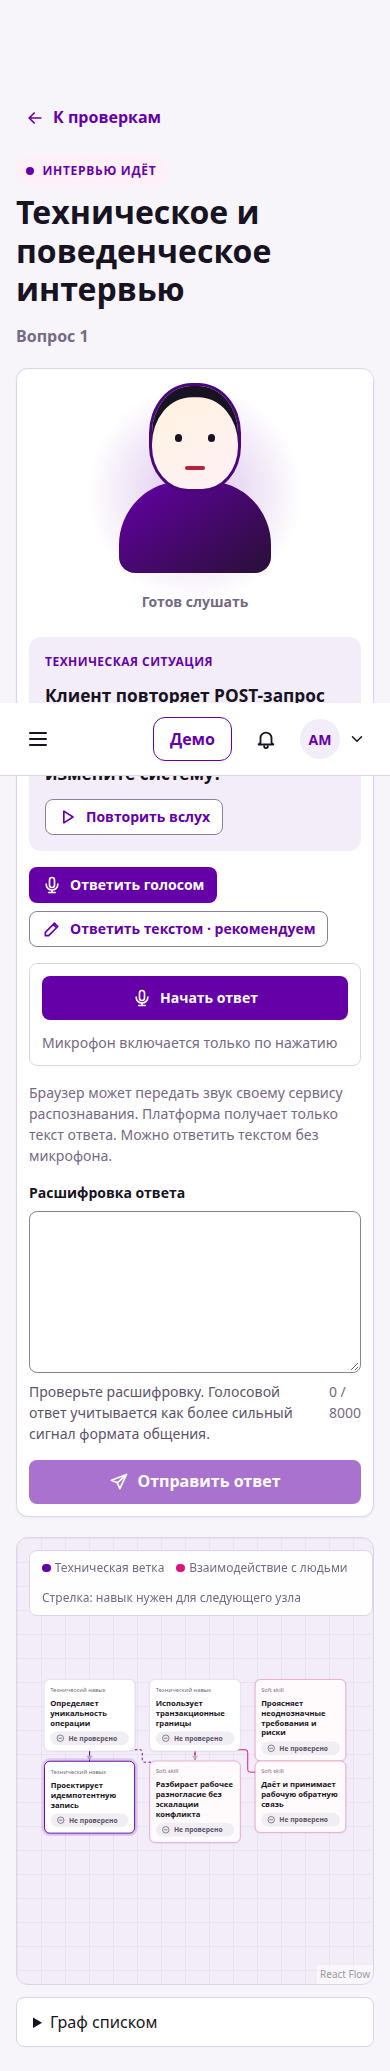
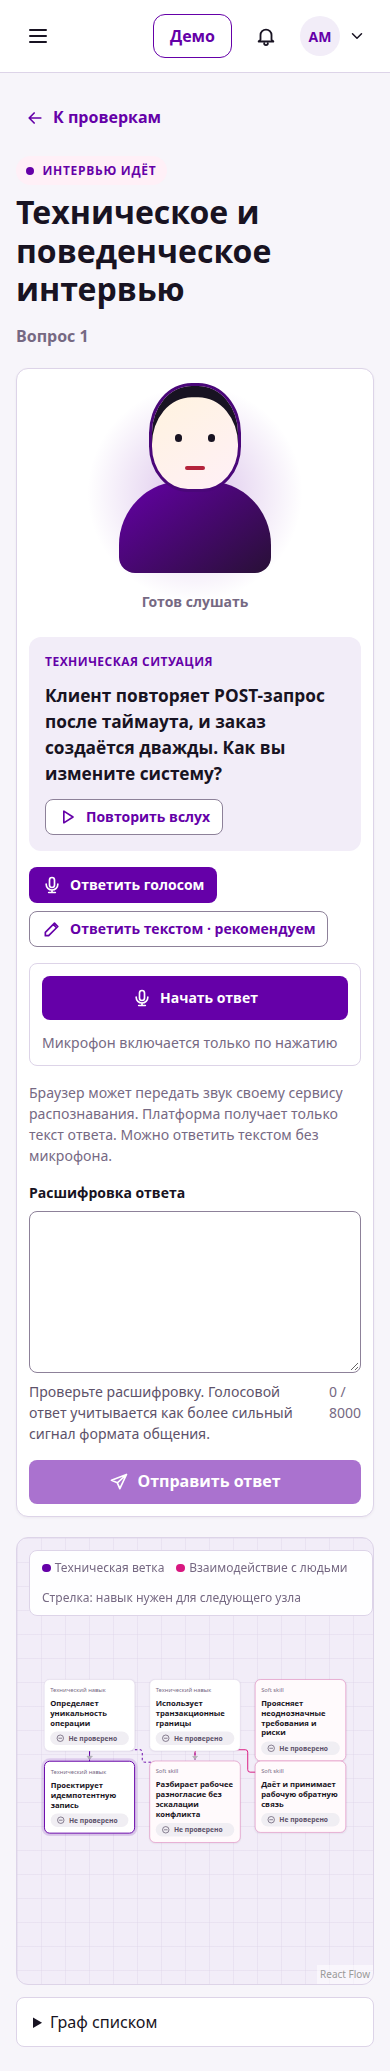
docs(frontend): capture mobile interview from page top

diff --git a/frontend/e2e/interview.spec.ts b/frontend/e2e/interview.spec.ts
@@ -63,6 +63,8 @@ test('speech failures preserve the draft and detached callbacks cannot change a 
     await expect
       .poll(() => page.locator('#app-navigation').evaluate((navigation) => navigation.getBoundingClientRect().right))
       .toBeLessThanOrEqual(0);
+    await page.evaluate(() => window.scrollTo(0, 0));
+    await expect.poll(() => page.evaluate(() => window.scrollY)).toBe(0);
     expect(await page.evaluate(() => document.documentElement.scrollWidth <= window.innerWidth)).toBe(true);
     await page.screenshot({
       path: 'docs/screenshots/22b-graph-interview-mobile.png',
